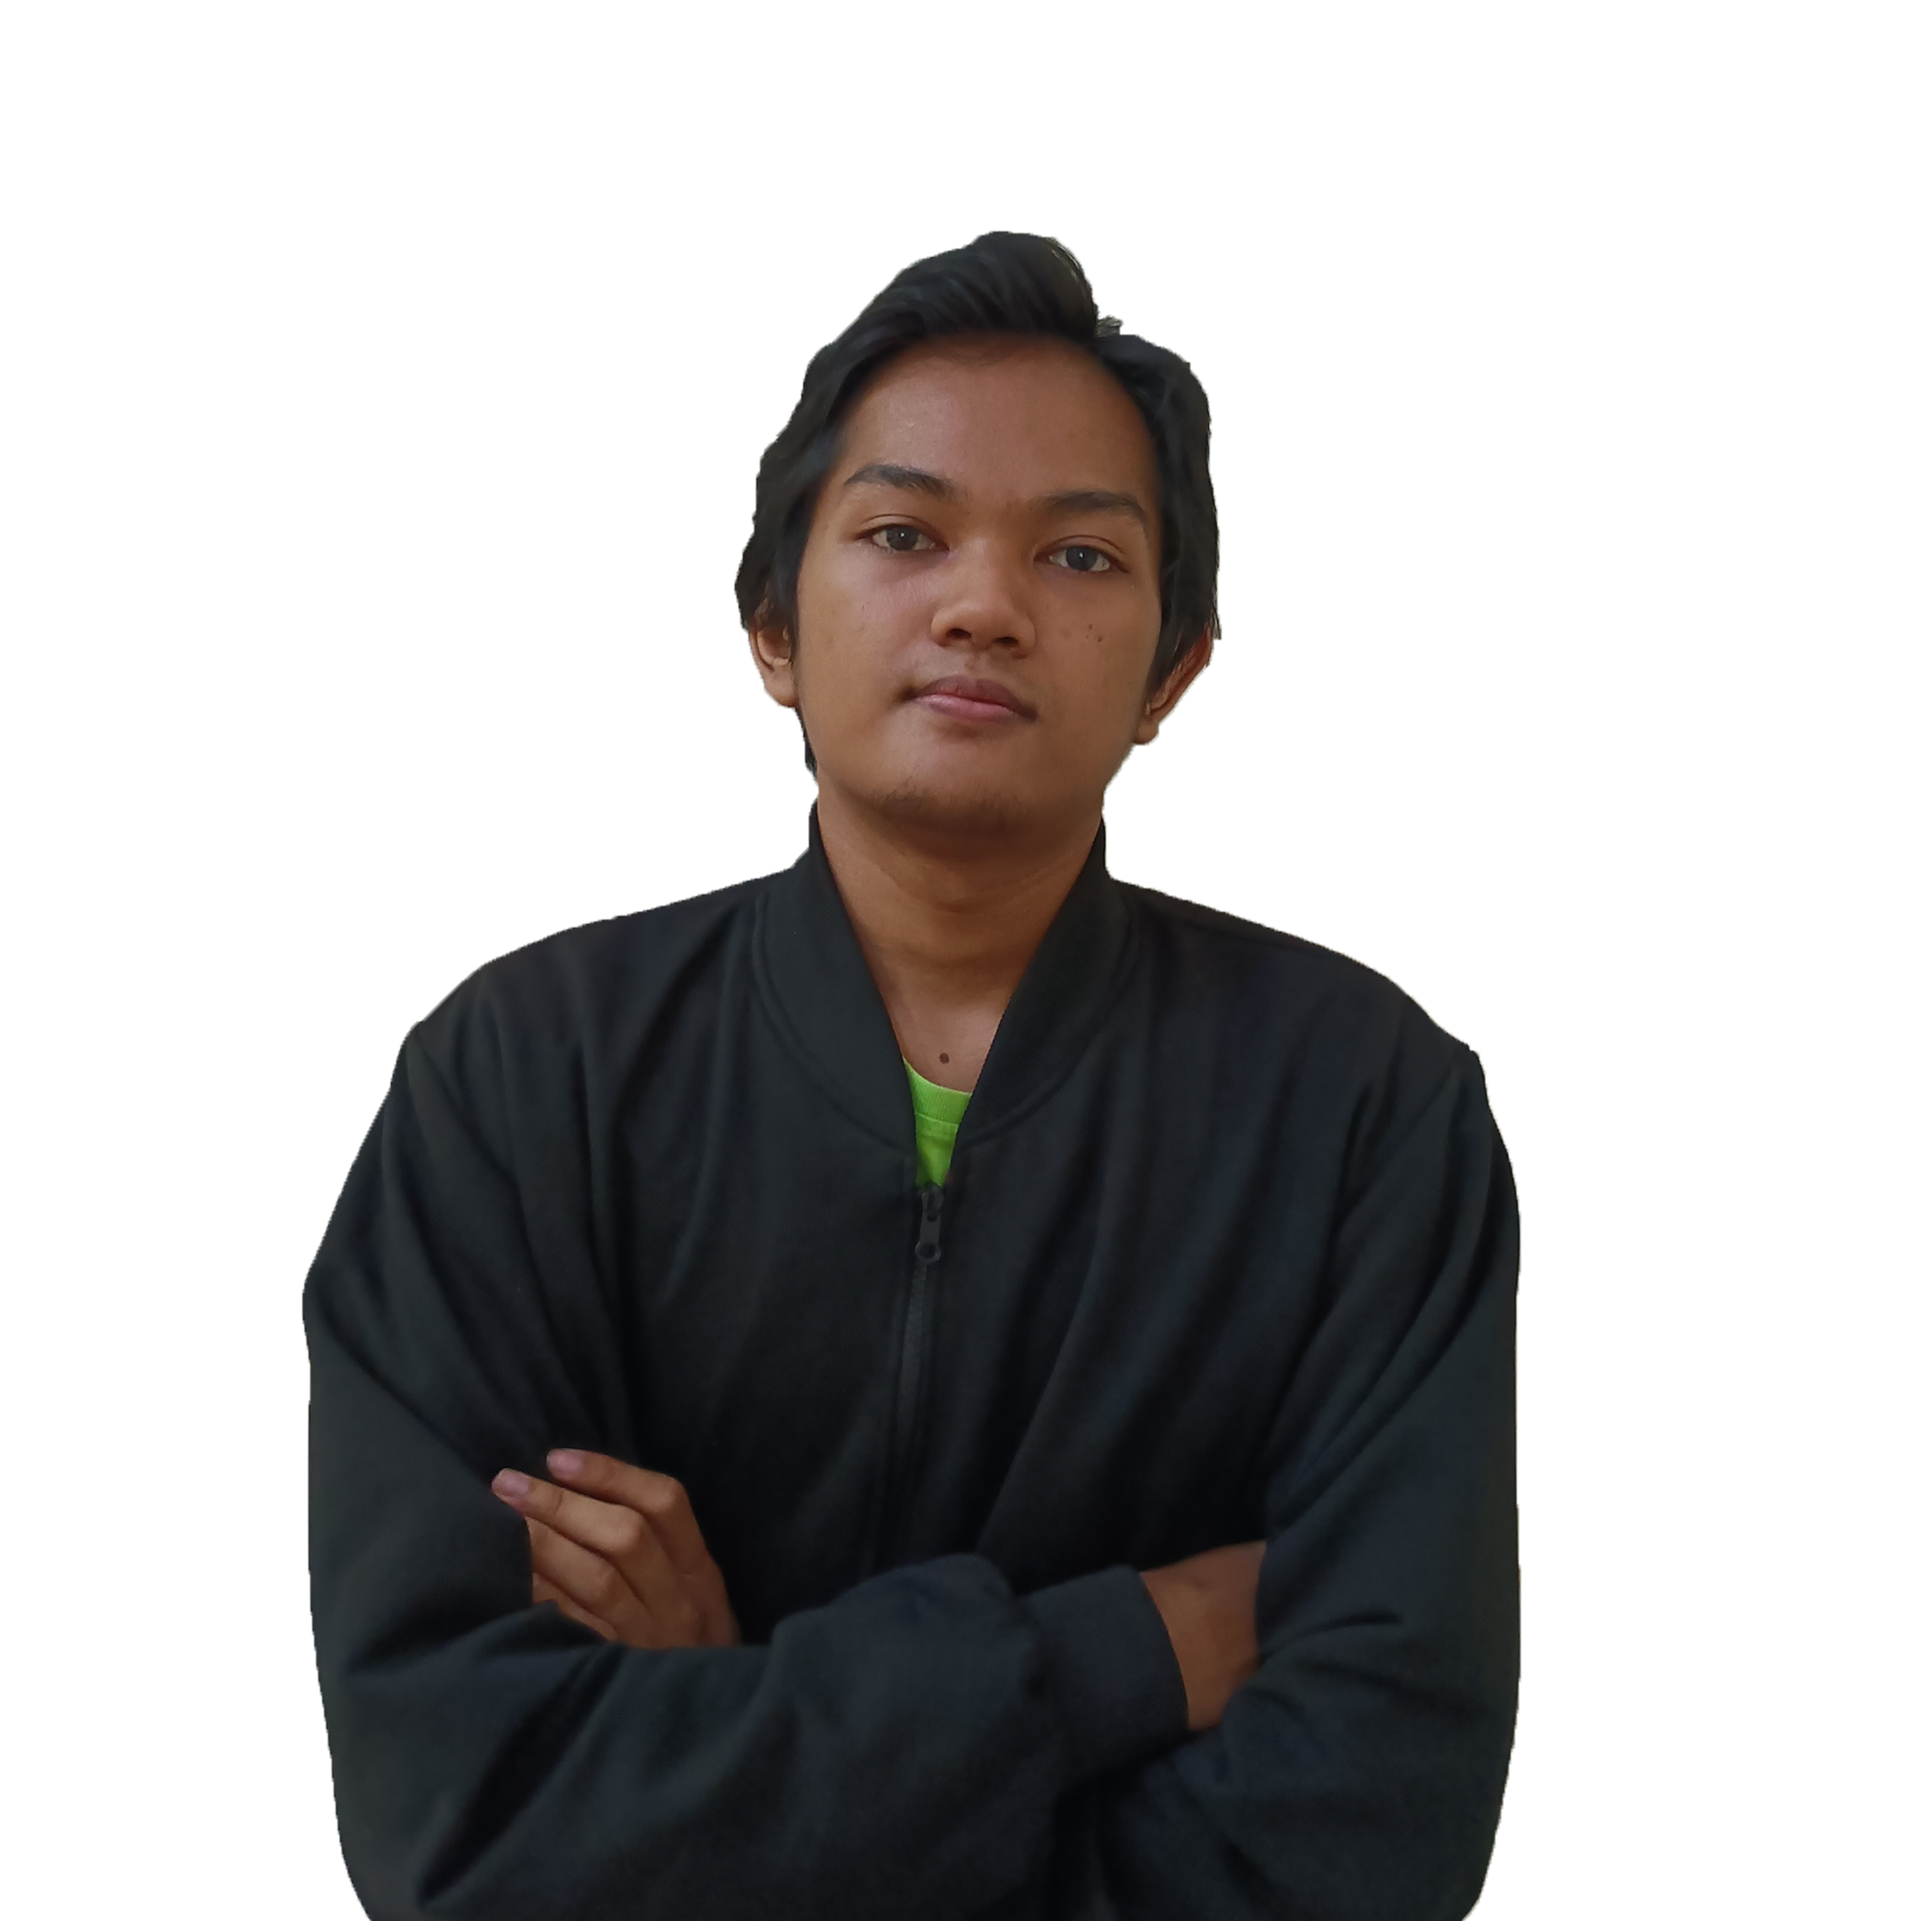
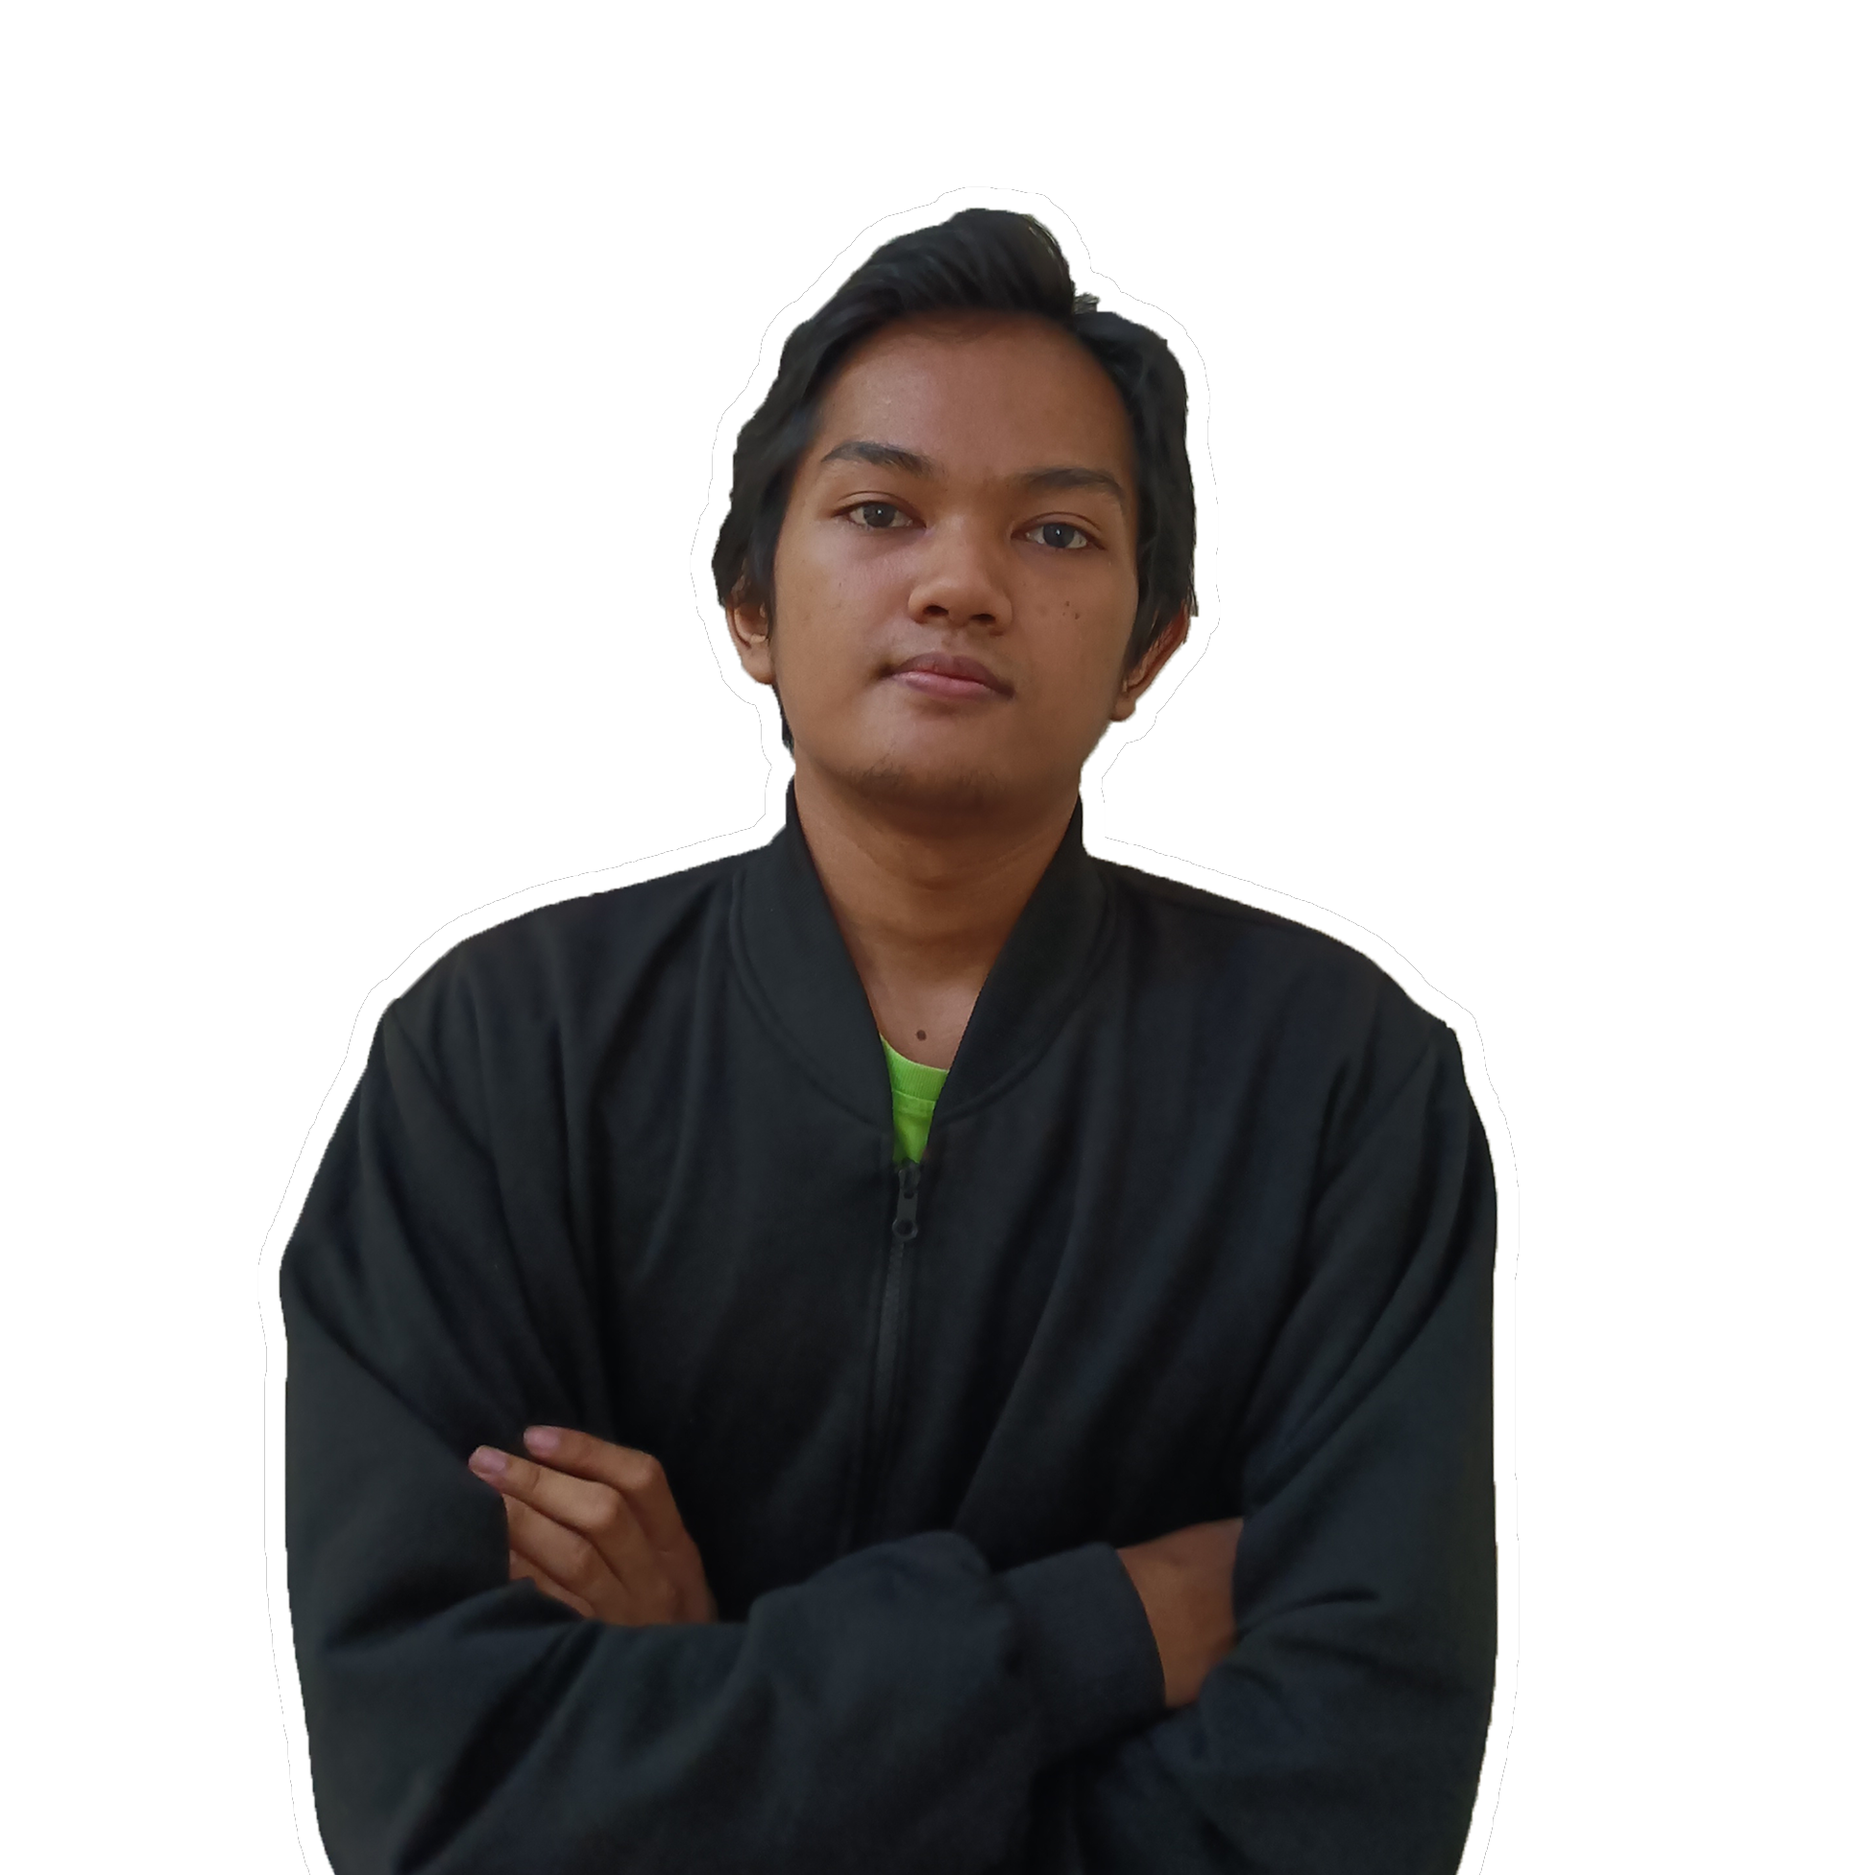
no message

diff --git a/dist/output.css b/dist/output.css
@@ -536,6 +536,10 @@ video {
 
 .container {
   width: 100%;
+  margin-right: auto;
+  margin-left: auto;
+  padding-right: 15px;
+  padding-left: 15px;
 }
 
 @media (min-width: 640px) {
@@ -562,9 +566,9 @@ video {
   }
 }
 
-@media (min-width: 1536px) {
+@media (min-width: 1320px) {
   .container {
-    max-width: 1536px;
+    max-width: 1320px;
   }
 }
 
@@ -576,36 +580,12 @@ video {
   position: relative;
 }
 
-.-bottom-0 {
-  bottom: -0px;
+.-bottom-5 {
+  bottom: -1.25rem;
 }
 
 .left-1\/2 {
   left: 50%;
-}
-
-.-bottom-10 {
-  bottom: -2.5rem;
-}
-
-.-bottom-9 {
-  bottom: -2.25rem;
-}
-
-.-bottom-11 {
-  bottom: -2.75rem;
-}
-
-.-bottom-20 {
-  bottom: -5rem;
-}
-
-.-bottom-7 {
-  bottom: -1.75rem;
-}
-
-.-bottom-5 {
-  bottom: -1.25rem;
 }
 
 .-z-10 {
@@ -617,32 +597,16 @@ video {
   margin-right: auto;
 }
 
-.mb-5 {
-  margin-bottom: 1.25rem;
-}
-
-.mb-10 {
-  margin-bottom: 2.5rem;
+.mb-3 {
+  margin-bottom: 0.75rem;
 }
 
 .mb-9 {
   margin-bottom: 2.25rem;
 }
 
-.mb-3 {
-  margin-bottom: 0.75rem;
-}
-
 .mt-10 {
   margin-top: 2.5rem;
-}
-
-.mt-1 {
-  margin-top: 0.25rem;
-}
-
-.mt-9 {
-  margin-top: 2.25rem;
 }
 
 .mt-8 {
@@ -700,6 +664,11 @@ video {
   padding-right: 1rem;
 }
 
+.px-7 {
+  padding-left: 1.75rem;
+  padding-right: 1.75rem;
+}
+
 .px-8 {
   padding-left: 2rem;
   padding-right: 2rem;
@@ -710,18 +679,8 @@ video {
   padding-bottom: 0.75rem;
 }
 
-.px-7 {
-  padding-left: 1.75rem;
-  padding-right: 1.75rem;
-}
-
 .pt-36 {
   padding-top: 9rem;
-}
-
-.text-2xl {
-  font-size: 1.5rem;
-  line-height: 2rem;
 }
 
 .text-3xl {
@@ -739,35 +698,20 @@ video {
   line-height: 1.75rem;
 }
 
-.text-4xl {
-  font-size: 2.25rem;
-  line-height: 2.5rem;
-}
-
 .font-bold {
   font-weight: 700;
-}
-
-.font-semibold {
-  font-weight: 600;
 }
 
 .font-medium {
   font-weight: 500;
 }
 
+.font-semibold {
+  font-weight: 600;
+}
+
 .leading-relaxed {
   line-height: 1.625;
-}
-
-.text-primary {
-  --tw-text-opacity: 1;
-  color: rgb(56 189 248 / var(--tw-text-opacity));
-}
-
-.text-slate-800 {
-  --tw-text-opacity: 1;
-  color: rgb(30 41 59 / var(--tw-text-opacity));
 }
 
 .text-dark {
@@ -775,24 +719,24 @@ video {
   color: rgb(30 41 59 / var(--tw-text-opacity));
 }
 
-.text-slate-600 {
+.text-primary {
   --tw-text-opacity: 1;
-  color: rgb(71 85 105 / var(--tw-text-opacity));
-}
-
-.text-slate-500 {
-  --tw-text-opacity: 1;
-  color: rgb(100 116 139 / var(--tw-text-opacity));
-}
-
-.text-white {
-  --tw-text-opacity: 1;
-  color: rgb(255 255 255 / var(--tw-text-opacity));
+  color: rgb(56 189 248 / var(--tw-text-opacity));
 }
 
 .text-slate-400 {
   --tw-text-opacity: 1;
   color: rgb(148 163 184 / var(--tw-text-opacity));
+}
+
+.text-slate-600 {
+  --tw-text-opacity: 1;
+  color: rgb(71 85 105 / var(--tw-text-opacity));
+}
+
+.text-white {
+  --tw-text-opacity: 1;
+  color: rgb(255 255 255 / var(--tw-text-opacity));
 }
 
 .underline {
@@ -812,34 +756,15 @@ video {
     transform: translate(var(--tw-translate-x), var(--tw-translate-y)) rotate(var(--tw-rotate)) skewX(var(--tw-skew-x)) skewY(var(--tw-skew-y)) scaleX(var(--tw-scale-x)) scaleY(var(--tw-scale-y));
   }
 
-  .md\:text-xl {
-    font-size: 1.25rem;
-    line-height: 1.75rem;
-  }
-
   .md\:text-2xl {
     font-size: 1.5rem;
     line-height: 2rem;
-  }
-
-  .md\:text-3xl {
-    font-size: 1.875rem;
-    line-height: 2.25rem;
-  }
-
-  .md\:text-4xl {
-    font-size: 2.25rem;
-    line-height: 2.5rem;
   }
 }
 
 @media (min-width: 1024px) {
   .lg\:right-0 {
     right: 0px;
-  }
-
-  .lg\:mt-8 {
-    margin-top: 2rem;
   }
 
   .lg\:mt-7 {
@@ -850,18 +775,8 @@ video {
     width: 50%;
   }
 
-  .lg\:text-2xl {
-    font-size: 1.5rem;
-    line-height: 2rem;
-  }
-
   .lg\:text-4xl {
     font-size: 2.25rem;
     line-height: 2.5rem;
-  }
-
-  .lg\:text-5xl {
-    font-size: 3rem;
-    line-height: 1;
   }
 }

diff --git a/index.html b/index.html
@@ -25,12 +25,14 @@
 
                 <div class="w-full self-end px-4 lg:w-1/2">
                     <div class="relative mt-8 lg:mt-7 lg:right-0">
-                        <img src="src/tes.png" alt="" class="max-w-full mx-auto">
-                        <span class="absolute mt-10 -z-10 -bottom-11 left-1/2 -translate-x-1/2 md:scale-125">
+                        <img src="src/keren2.jpg" alt="" class="img max-w-full mx-auto">
+                        <!-- <span class="absolute mt-10 -z-10 -bottom-5 left-1/2 -translate-x-1/2 md:scale-125">
                             <svg width="400" height="400" viewBox="0 0 200 200" xmlns="http://www.w3.org/2000/svg">
-                                <path fill="#38bdf8" d="M45.9,-69.1C55.9,-56,57.8,-37.7,64,-20.4C70.2,-3,80.8,13.3,75.9,23.5C71.1,33.7,50.7,37.8,35.5,45.3C20.3,52.8,10.1,63.7,-2.4,67C-15,70.4,-30,66.2,-44.7,58.5C-59.5,50.9,-73.9,39.8,-78.9,25.4C-83.9,11,-79.5,-6.7,-70.8,-19.8C-62.1,-33,-49.3,-41.5,-36.8,-53.8C-24.3,-66,-12.1,-82,2.9,-86C18,-90,36,-82.1,45.9,-69.1Z" transform="translate(100 100) scale(1.1)" />
-                              </svg>
+                                <path fill="#38bdf8" d="M45.9,-69.1C55.9,-56,57.8,-37.7,64,-20.4C70.2,-3,80.8,13.3,75.9,23.5C71.1,33.7,50.7,37.8,35.5,45.3C20.3,52.8,10.1,63.7,-2.4,67C-15,70.4,-30,66.2,-44.7,58.5C-59.5,50.9,-73.9,39.8,-78.9,25.4C-83.9,11,-79.5,-6.7,-70.8,-19.8C-62.1,-33,-49.3,-41.5,-36.8,-53.8C-24.3,-66,-12.1,-82,2.9,-86C18,-90,36,-82.1,45.9,-69.1Z" transform="translate(100 100) scale(1.0)" />
+                              </svg> -->
                         </span>
+
+                        <!-- <img src="src/keren.jpg" alt="" class="img max-w-full mx-auto"> -->
                     </div>
                 </div>
             </div>

diff --git a/tailwind.config.js b/tailwind.config.js
@@ -2,10 +2,19 @@
 module.exports = {
   content: ['index.html'],
   theme: {
+    container: {
+      center: true,
+      padding: '15px',
+    },
+
     extend: {
       colors: {
         primary: '#38bdf8',
         dark: '#1e293b',
+      },
+
+      screens: {
+        '2xl': '1320px',
       },
     },
   },

diff --git a/src/tes.css b/src/tes.css
@@ -30,3 +30,9 @@
 .button:hover::before{
     transform: scaleX(1);
 }
+
+.img {
+    position: relative;
+    border-radius: 25px;
+
+}
